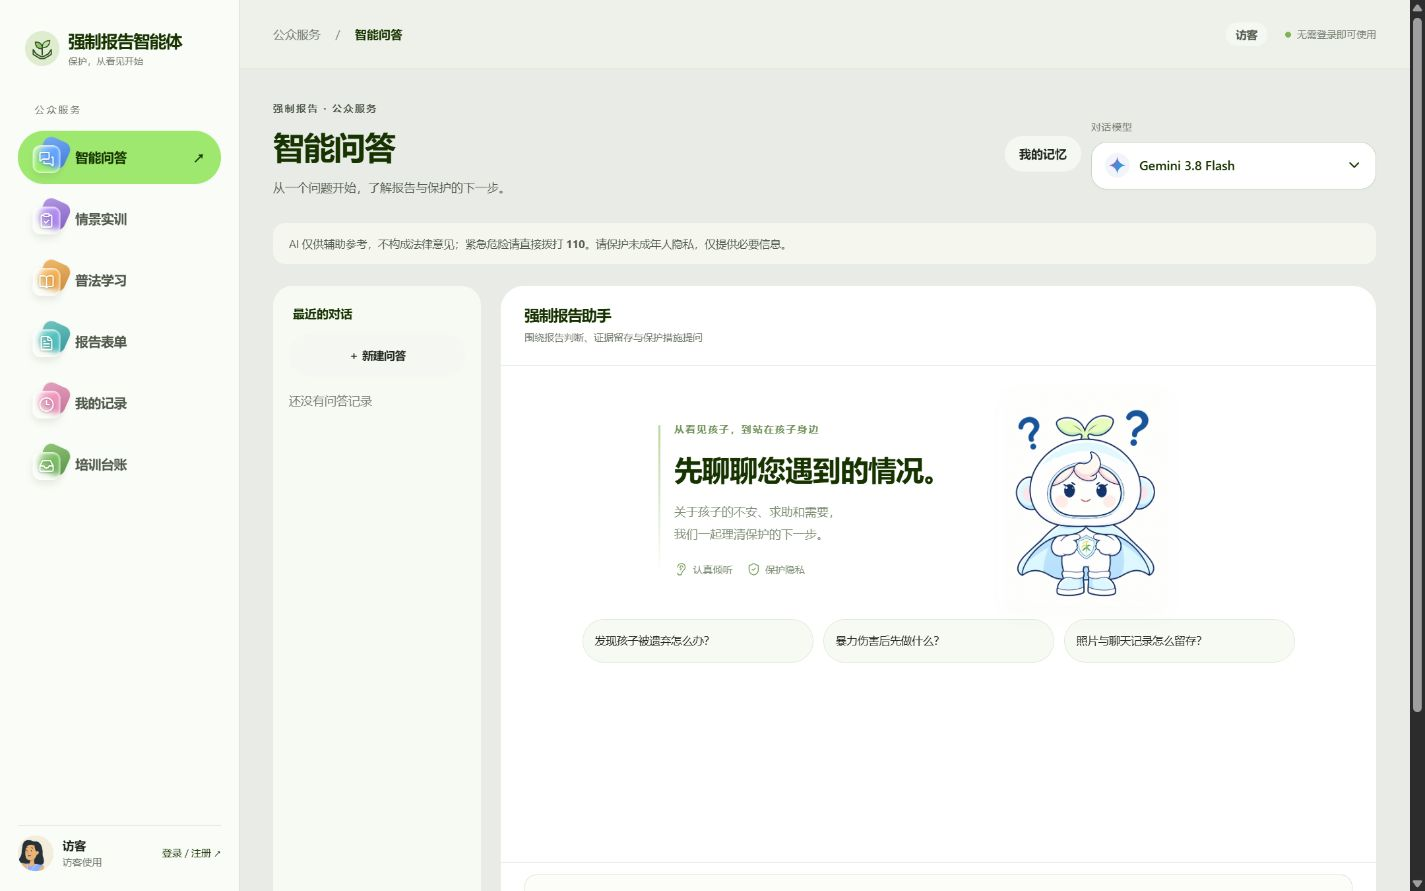
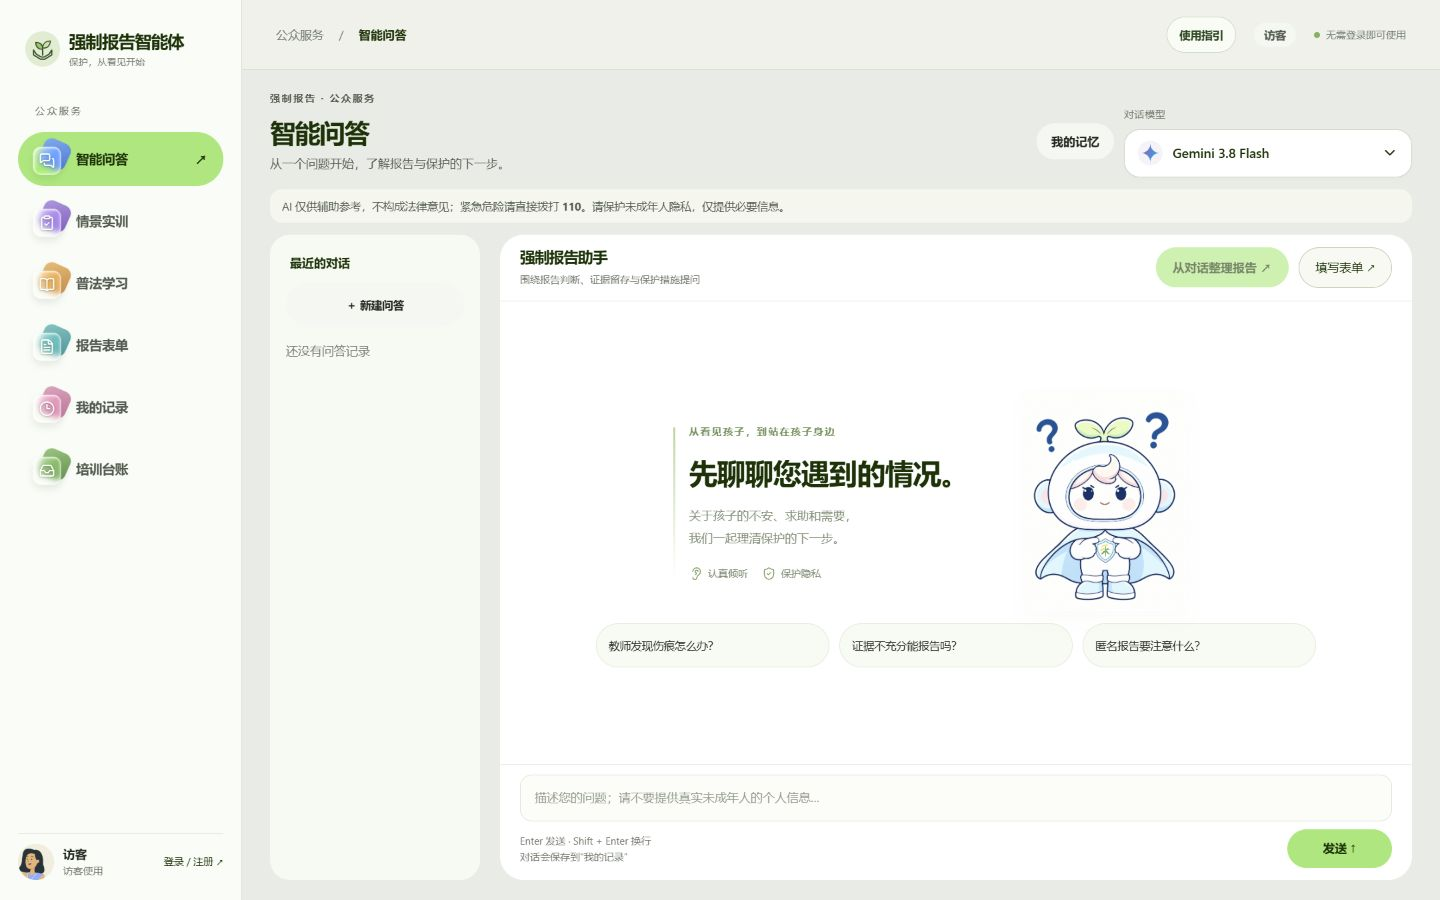
Compact the question page and promote report actions

diff --git a/public/portal.js b/public/portal.js
@@ -59,7 +59,7 @@ function startQuestions() {
     const area = $("question-carousel");
     if (!area || document.hidden || current || generating || $("chat-input")?.value.trim() || area.matches(":hover") || area.contains(document.activeElement)) return;
     rotateQuestions();
-  }, 8000);
+  }, 4000);
 }
 window.addEventListener("pagehide", stopQuestions);
 window.addEventListener("pageshow", () => { if ($("question-carousel")) startQuestions(); });
@@ -176,7 +176,7 @@ function messagesHTML(s) {
 }
 function composer() { return `<form id="chat-form" class="chat-composer"><label for="chat-input" class="visually-hidden">输入对话内容</label><textarea id="chat-input" rows="1" maxlength="4000" placeholder="描述您的问题；请不要提供真实未成年人的个人信息…"></textarea><div class="composer-bottom"><span>Enter 发送 · Shift + Enter 换行<br>对话会保存到“我的记录”</span><button id="chat-send" class="primary" type="submit">发送 <span aria-hidden="true">↑</span></button></div></form>`; }
 function chatCard(training = false) {
-  return `<section class="chat-card"><div class="chat-heading"><div><h2 id="chat-title">${training ? esc(data.cases.find(c => c.id === current.caseId).character) : "强制报告助手"}</h2><p id="chat-subtitle">${training ? "与AI角色沟通，逐步了解情形" : "围绕报告判断、证据留存与保护措施提问"}</p></div></div>${training ? `<div class="training-case-note">${esc(data.cases.find(c => c.id === current.caseId).summary)}</div>` : ""}<div id="chat-messages" class="chat-messages" aria-live="polite"></div><div id="chat-retry" class="chat-retry" hidden></div>${composer()}</section>`;
+  return `<section class="chat-card"><div class="chat-heading"><div><h2 id="chat-title">${training ? esc(data.cases.find(c => c.id === current.caseId).character) : "强制报告助手"}</h2><p id="chat-subtitle">${training ? "与AI角色沟通，逐步了解情形" : "围绕报告判断、证据留存与保护措施提问"}</p></div>${training ? "" : `<div class="qa-report-actions" aria-label="报告操作"><button type="button" class="primary" data-build-report>从对话整理报告 ↗</button><a class="secondary" href="/report">填写表单 ↗</a></div>`}</div>${training ? `<div class="training-case-note">${esc(data.cases.find(c => c.id === current.caseId).summary)}</div>` : ""}<div id="chat-messages" class="chat-messages" aria-live="polite"></div><div id="chat-retry" class="chat-retry" hidden></div>${composer()}</section>`;
 }
 function updateChat() {
   if (!$("chat-messages")) return;
@@ -193,6 +193,8 @@ function updateChat() {
   $("chat-send").classList.toggle("stop-generation", canStop);
   if (!stopRequested && (generating || streamError && (streamingText || streamingActivity.length)) && streamingKind === "message") $("chat-messages").insertAdjacentHTML("beforeend", streamMessageHTML());
   if ($("model-trigger")) $("model-trigger").disabled = generating;
+  const reportButton = main.querySelector("[data-build-report]");
+  if (reportButton) { reportButton.disabled = generating || !current?.messages.some(message => message.role === "user"); reportButton.title = reportButton.disabled && !generating ? "先描述具体情况，再整理报告草稿" : "整理后进入表单核对，不会直接提交"; }
   if (current?.kind === "qa") { $("chat-title").textContent = current.title; $("chat-subtitle").textContent = "当前模型 " + modelName(model()); }
   $("chat-messages").scrollTop = $("chat-messages").scrollHeight;
   resizeComposer();
@@ -236,7 +238,7 @@ async function refreshRecent() { const version = navigationVersion; const value 
 function renderRecent() { $("chat-session-list").innerHTML = recent.filter(s => s.kind === "qa").slice(0, 12).map(s => `<button class="session-link ${s.id === current?.id ? "active" : ""}" type="button" data-session="${s.id}"><span>${esc(s.title)}</span></button>`).join("") || `<p class="muted">还没有问答记录</p>`; }
 async function qaPage() {
   const version = navigationVersion;
-  main.innerHTML = intro("智能问答", "从一个问题开始，了解报告与保护的下一步。", `<button type="button" data-open-memory class="secondary mini">我的记忆</button>` + picker()) + disclaimer + `<div class="chat-layout"><aside class="chat-sessions"><h3>最近的对话</h3><button id="new-chat" type="button" class="secondary">＋ 新建问答</button><div id="chat-session-list" class="chat-session-list"></div></aside>${chatCard()}</div><div class="qa-links"><span>联网检索 · 中等范围 · 尚未接入专用案例库</span><div class="actions"><button type="button" class="text-button mini" data-build-report>从对话整理报告 ↗</button><a href="/report">填写表单 ↗</a></div></div>` + footer();
+  main.innerHTML = intro("智能问答", "从一个问题开始，了解报告与保护的下一步。", `<button type="button" data-open-memory class="secondary mini">我的记忆</button>` + picker()) + disclaimer + `<div class="chat-layout"><aside class="chat-sessions"><h3>最近的对话</h3><button id="new-chat" type="button" class="secondary">＋ 新建问答</button><div id="chat-session-list" class="chat-session-list"></div></aside>${chatCard()}</div>`;
   bindModel(); bindComposer(); updateChat();
   $("new-chat").onclick = () => { if (generating) return toast("请等待当前回复完成"); clearStream(); current = null; replacePortalURL("/ask"); $("chat-title").textContent = "强制报告助手"; $("chat-input").value = ""; updateChat(); renderRecent(); };
   await refreshRecent();
@@ -449,7 +451,7 @@ function savePage(url) {
   pageCache.delete(url); pageCache.set(url, state);
   while (pageCache.size > 8) pageCache.delete(pageCache.keys().next().value);
 }
-function setPageTitle() { document.title = pageTitles[page] + " · 强制报告智能体"; activateShell(page); }
+function setPageTitle() { main.dataset.page = page; document.title = pageTitles[page] + " · 强制报告智能体"; activateShell(page); }
 function configuredNotice() {
   if (!config.configured && ["ask", "training"].includes(page) && !main.querySelector('[data-ai-unavailable]')) main.insertAdjacentHTML("afterbegin", `<div class="portal-error" data-ai-unavailable>真实AI功能暂不可用，请检查服务端配置。</div>`);
 }

diff --git a/public/portal.css b/public/portal.css
@@ -1,4 +1,8 @@
 /* Public service shell and learning components. */
+.qa-report-actions{display:flex;align-items:center;gap:10px;flex-shrink:0}.qa-report-actions .primary,.qa-report-actions .secondary{display:inline-flex;align-items:center;justify-content:center;min-height:40px;padding:10px 16px;border-radius:999px;font-size:12px;white-space:nowrap}.qa-report-actions .secondary{border:1px solid #b9cba8;color:var(--ink);background:#f6f9f1}.qa-report-actions .primary:disabled{opacity:.6;cursor:not-allowed}
+@media(min-width:851px){.public-workspace:has(>.portal-main[data-page="ask"]){height:100dvh;display:flex;flex-direction:column}.public-workspace:has(>.portal-main[data-page="ask"])>.public-topbar,.public-workspace:has(>.portal-main[data-page="ask"])>.guide-invite{flex-shrink:0}.public-page .portal-main[data-page="ask"]{width:100%;max-width:1600px;flex:1;min-height:0;display:flex;flex-direction:column;padding:18px 28px 20px}.portal-main[data-page="ask"]>.page-intro{flex-shrink:0;margin-bottom:12px;align-items:center}.portal-main[data-page="ask"] .page-intro h1{font-size:26px;margin-bottom:4px}.portal-main[data-page="ask"]>.legal-notice{flex-shrink:0;margin-bottom:12px;padding:8px 12px}.portal-main[data-page="ask"]>.chat-layout{flex:1;min-height:0;height:auto}.portal-main[data-page="ask"] .chat-heading{padding:12px 20px;gap:12px;flex-wrap:wrap}.portal-main[data-page="ask"] .chat-heading>div:first-child{flex:1;min-width:160px}.portal-main[data-page="ask"] .chat-heading h2{font-size:15px}.portal-main[data-page="ask"] .chat-messages{padding:16px 20px}.portal-main[data-page="ask"] .chat-messages:has(>.chat-welcome){display:grid;place-items:center}.portal-main[data-page="ask"] .chat-welcome{width:100%}.portal-main[data-page="ask"] .welcome-scene{max-width:660px}.portal-main[data-page="ask"]>.portal-error{flex-shrink:0;margin-bottom:10px}.portal-main[data-page="ask"] .chat-composer{padding:10px 20px 12px}}
+@media(min-width:851px) and (max-height:720px){.portal-main[data-page="ask"] .page-intro p{display:none}.public-page .portal-main[data-page="ask"]{padding-top:12px;padding-bottom:12px}.portal-main[data-page="ask"] .welcome-scene .welcome-art{height:140px;width:160px}.portal-main[data-page="ask"] .welcome-scene{grid-template-columns:minmax(0,1fr) 160px}.portal-main[data-page="ask"] .welcome-copy h2{font-size:25px}}
+@media(max-width:850px){.portal-main[data-page="ask"] .chat-heading{flex-wrap:wrap;gap:12px}.qa-report-actions{width:100%;flex-wrap:wrap}.qa-report-actions .primary,.qa-report-actions .secondary{flex:1;min-height:42px;padding:10px 12px;font-size:11px}}
 .account-name{display:block;font-size:12px;overflow-wrap:anywhere}.account-login,#account-logout{font-size:11px;margin-top:7px;color:var(--ink)}.profile-card .account-name+p{margin:5px 0 0;font-size:10px}.account-state{display:flex;align-items:center;gap:6px;font-size:10px;color:var(--muted)}.account-state i{width:6px;height:6px;border-radius:50%;background:#7db355}.locked-identity{display:flex;gap:9px;align-items:center;flex-wrap:wrap;background:var(--soft);border-radius:12px;padding:12px 15px}.locked-identity small{color:var(--muted);font-size:10px}.identity-choices:has(.locked-identity){display:block}
 @media(max-width:767px){.profile-card>div:has(.account-name){flex-wrap:wrap;gap:6px 12px}.profile-card .account-name+p{margin:0}.profile-card #account-logout,.profile-card .account-login{margin:0 0 0 auto}.account-state{font-size:9px}.locked-identity small{width:100%;padding-left:22px}}
 /* Draft progress, rotating questions, and report situation labels. */

diff --git a/public/help-tour.js b/public/help-tour.js
@@ -3,7 +3,7 @@ import { openDialog, bindDialog } from '/common.js';
 const SEEN_KEY = 'publicUsageGuide:v1';
 let dialog, invitation, seenInSession = false, steps = [], step = 0, target;
 const pageSteps = {
-  ask: [['#model-trigger', '选择对话模型', '可按需要切换已配置的模型；遇到调用失败时，可以切换后重试。'], ['#chat-input', '从一个问题开始', '描述您了解的情况即可，不必使用专业术语。请避免输入真实未成年人的隐私信息。'], ['.qa-links', '需要报告时整理草稿', '可以从对话整理报告草稿，再进入表单核对和补充。对话不会直接提交线索。']],
+  ask: [['#model-trigger', '选择对话模型', '可按需要切换已配置的模型；遇到调用失败时，可以切换后重试。'], ['#chat-input', '从一个问题开始', '描述您了解的情况即可，不必使用专业术语。请避免输入真实未成年人的隐私信息。'], ['.qa-report-actions', '需要报告时整理草稿', '可以从对话整理报告草稿，再进入表单核对和补充。对话不会直接提交线索。']],
   training: [['.scenario-card h2', '按场景开始练习', '案例均为虚构，包含入门、进阶与高阶场景，可选择适合自己岗位的案例。'], ['[data-start]', '对话与作答结合', '进入案例后，先与AI角色沟通，再完成风险识别等五步作答。模拟上报不会进入公安队列。']],
   learning: [['.lesson-card h2', '阅读学习卡片', '先了解制度要点、保护措施和短案例，来源链接可供进一步查阅。'], ['[data-learn]', '记录学习进度', '阅读后记录完成情况，再到情景实训中练习应用；学习和实训记录会进入个人台账。']],
   report: [['#region-province', '按层级选择地区', '先选省份，再选城市和区县，系统会联动更新下级选项。具体地点填在详细地址中。'], ['.description-field', '如实记录已知情况', '写清时间、地点、观察到的情况和当事人原话，将已知事实与推测分开。'], ['.upload-zone', '可分次添加多份证据', '支持照片、视频和录音等文件。添加后可逐项移除，附件会随草稿保存。'], ['.form-submit', '核对后再提交', '提交前还会显示确认提示。姓名和电话为选填；遇现实紧急危险，请直接拨打110。']],

diff --git a/docs/REPORT_DRAFT_IMPROVEMENTS.md b/docs/REPORT_DRAFT_IMPROVEMENTS.md
@@ -1,0 +1,31 @@
+# 对话转报告的准确性改进方案
+
+## 当前实现
+
+手动“从对话整理报告”将用户消息交给模型提取字段；对话中的自动草稿则由模型调用 `prepare_report_draft` 工具生成。两者均为模型辅助预填。接收端 `assess()` 的关键词规则是另一条提交后的演示研判流程。
+
+目前已有未知留空、字段白名单和格式检查，但缺少字段对应原话的强制校验。泛化咨询、条件假设、转述和推测仍可能被写成具体事件；自动草稿还可能混入模型自己的建议。
+
+## 建议流程
+
+1. **统一入口**：手动按钮与自动工具均调用同一抽取服务；只允许引用当前会话的用户消息。AI 回复、检索材料与记忆不能直接作为本次事件证据。
+2. **保留出处**：每个候选字段返回值、用户消息编号、原文片段及表述性质，例如亲历观察、当事人原话、转述、推测或假设。
+3. **服务端校验**：确认引用片段确实存在，校验日期与地区的规范化关系。无来源或有冲突的字段进入待核实区，不能直接预填。存在引文也不等于真实发生，仍须用户确认。
+4. **区分内容**：已知情况、待核实信息和处置建议分开呈现。事件经过保留“据其陈述”“尚未确认”等限定，建议不写入事实描述，事件类型允许暂不选择。
+5. **先确认再写入**：生成后展示候选字段及原话，用户逐项修改、确认，点击“使用这些信息填写表单”后生成草稿；最终提交继续由表单独立确认。
+
+第一阶段先统一抽取路径、区分咨询与具体事件并增加核对界面；第二阶段补上字段级出处校验和冲突处理。预填失败时明确提示重试或手动填写，不自动用关键词推断补全。
+
+## 验收样例
+
+| 输入情形 | 预期行为 |
+| --- | --- |
+| “如果发现孩子被虐待，教师怎么办？” | 识别为咨询，不生成已发生的事件 |
+| “未发现家庭暴力，只是同学争吵” | 保留否定含义，不推断家庭暴力 |
+| “我猜可能受伤，听邻居说的” | 标为推测或转述，不改写成亲历事实 |
+| AI 曾建议报警、就医、保存证据 | 不把建议写为已经完成的行动 |
+| 用户没有提供时间、年龄或地址 | 留空并列为待补充，不自动补当天日期 |
+| 用户后续纠正地点或事件经过 | 显示更正与冲突，使用用户确认后的版本 |
+| 同一段对话分别触发手动与自动整理 | 使用同一事实抽取与校验规则 |
+
+评估采用固定虚构对话集，统计错误预填率、漏填率、无来源字段率和建议混入率。本轮仅调整问答页布局与操作入口，以上抽取协议尚未实现。

diff --git a/docs/UI_PREVIEW.md b/docs/UI_PREVIEW.md
@@ -12,9 +12,9 @@
 
 ## 访客智能问答
 
-访客进入后默认打开智能问答页。页面包含公众服务导航、对话模型选择、最近对话、快捷问题和智能助手欢迎区，疑问姿态的守护形象陪伴用户开始提问。
+访客进入后默认打开智能问答页。页面包含公众服务导航、模型选择、最近对话和智能助手欢迎区，快捷问题每 4 秒轮换。“从对话整理报告”和“填写表单”固定在对话卡片顶部；电脑端压缩纵向留白，长对话在卡片内部滚动。
 
-![访客智能问答首页，展示侧边导航、模型选择和快捷问题](screenshots/02-guest-ask.png)
+![访客智能问答首页，展示模型选择和顶部报告按钮](screenshots/02-guest-ask.png)
 
 ## 情景实训
 
